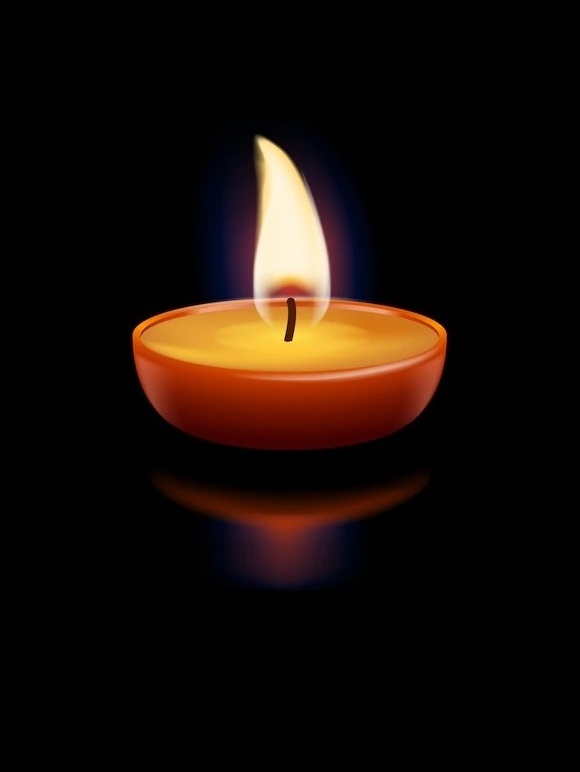
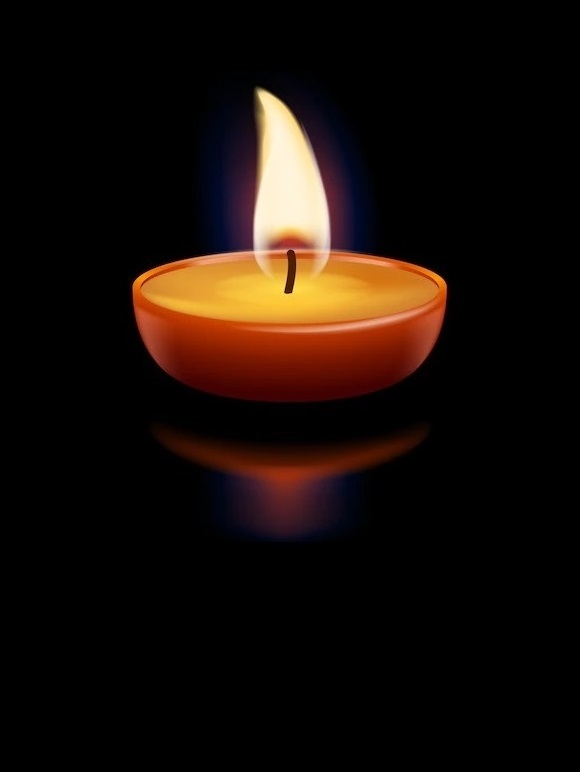
Modificaciones de estilos en la llama

Changed region(s): [[0.2172, 0.0933, 0.7759, 0.7772]]

diff --git a/styles.css b/styles.css
@@ -114,10 +114,15 @@ footer {
 
 
 /* ========================= CANDLE ================ */
-
+.vela{
+    transform: rotate(180deg);
+    z-index: -1;
+    position: fixed;
+    bottom: 20vh;
+}
 .candle {
     width: 34px;
-    margin: 60px auto 0 auto;
+    margin: 0px auto 0 auto;
     position: relative;
     height: 80%;
     align-self: flex-end;
